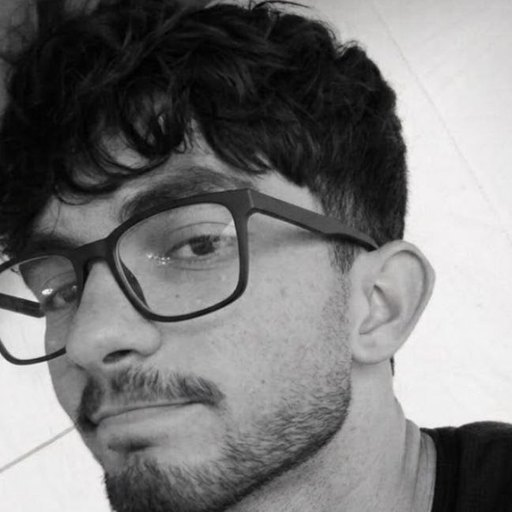
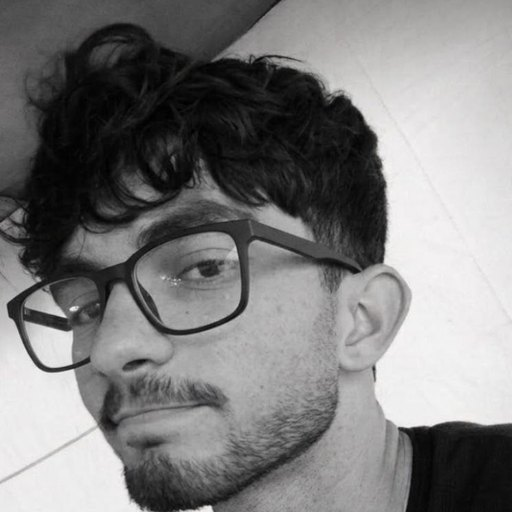
Make every circular image container a true circle and reframe Abood's portrait
The about-panel logo was rendering 78x120 with object-fit: fill because only
its width was set while the height came from the HTML attribute, so the
branding mark showed as an oval. Square image containers now declare
aspect-ratio 1/1 with object-fit: cover (about logo, founder photo, booking
avatar), the founder circle scales to 44% on small screens, and abood.jpg is
re-cropped wider and centred so the face sits mid-frame with clean padding
instead of tight off-centre edges.

🤖 Generated with Codebuff

diff --git a/css/sections.css b/css/sections.css
@@ -79,6 +79,10 @@ img.avatar {
 .booking-host .avatar-photo {
   width: 48px;
   height: 48px;
+  aspect-ratio: 1 / 1;
+  object-fit: cover;
+  object-position: center;
+  border-radius: 50%;
   border: 1px solid rgba(243, 245, 248, 0.42);
   box-shadow: 0 10px 24px rgba(5, 15, 31, 0.34);
   transition: transform 0.5s var(--ease), box-shadow 0.5s var(--ease);
@@ -860,6 +864,10 @@ img.avatar {
 
 .founder-portrait img {
   width: 45%;
+  height: auto;
+  aspect-ratio: 1 / 1;
+  object-fit: cover;
+  object-position: center;
   border-radius: 50%;
   opacity: 0.95;
   transition: transform 0.9s var(--ease);
@@ -1609,6 +1617,10 @@ dialog.modal[open] .project-shell {
 
 .about-portrait img {
   width: 78px;
+  height: auto;
+  aspect-ratio: 1 / 1;
+  object-fit: cover;
+  object-position: center;
   border-radius: 50%;
   margin-top: auto;
 }
@@ -2108,6 +2120,9 @@ dialog.modal[open] .project-shell {
   }
   .founder-portrait img {
     width: 31%;
+  }
+  .founder-portrait img.founder-photo {
+    width: 44%;
   }
   .founder-card .btn {
     width: 100%;
